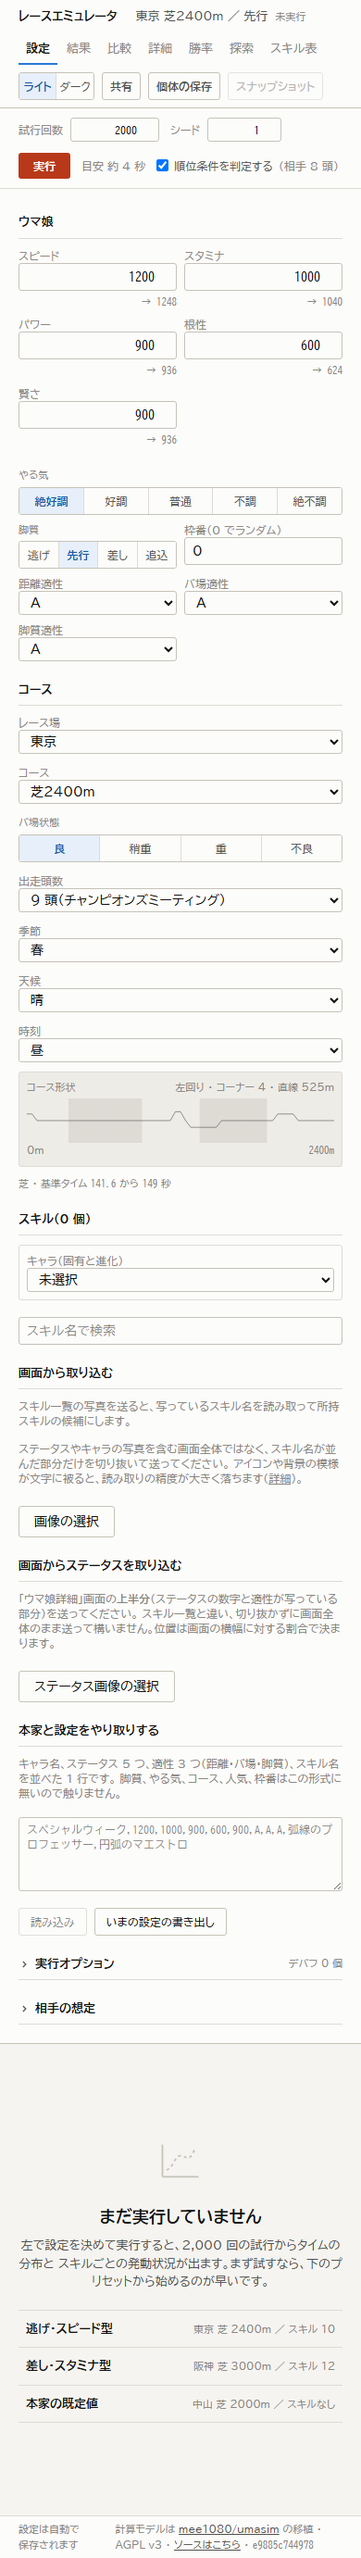
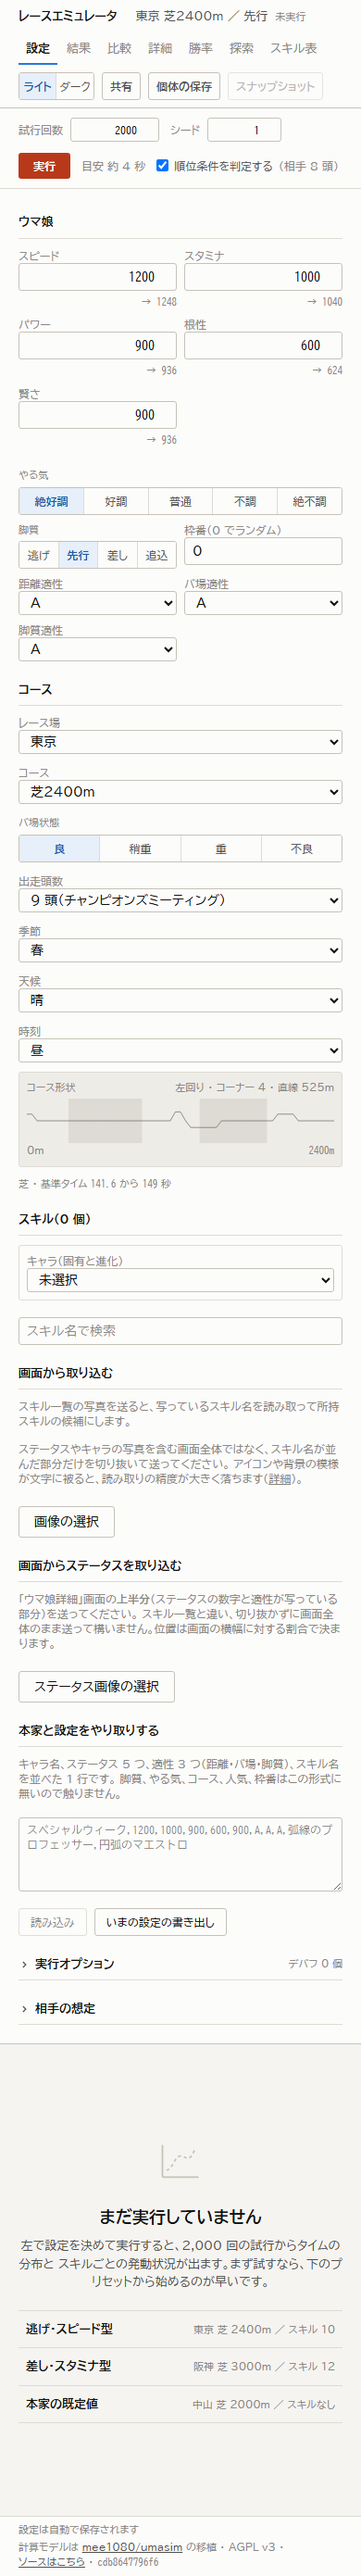
fix: 狭い幅のフッタを、区切りの位置でだけ折り返す
「設定は自動で／保存されます」のように語の途中で折れていた
（docs/ui-gap.md 8 節、design/Mobile.dc.html）。区切り（・）ごとに
1 かたまりにする。広い幅は 1 行のまま変わらない。

Refs #104

diff --git a/apps/web/src/components/Shell.tsx b/apps/web/src/components/Shell.tsx
@@ -217,48 +217,53 @@ const COMMIT_SHA = typeof __COMMIT_SHA__ === 'string' ? __COMMIT_SHA__ : '';
 
 export function Footer() {
   return (
-    <footer className="flex flex-none items-center gap-4 border-t border-rule bg-surface px-5 py-1.5 text-[11px] text-ink3">
+    // 狭い幅では折り返すが、語の途中では折らない。区切り（・）ごとに 1 かたまりにする
+    // （docs/ui-gap.md 8 節、design/Mobile.dc.html）。
+    <footer className="flex flex-none flex-wrap items-center gap-x-4 gap-y-0.5 border-t border-rule bg-surface px-5 py-1.5 text-[11px] text-ink3">
       {/*
         試行数と所要時間は結果の見出しにある。ここにも出すと同じ面に 2 度出る
         （docs/ui-audit-race-emulator.md 第1節「情報の重複」）。
       */}
-      <span>設定は自動で保存されます</span>
-      <span className="flex-1" />
-      <span>
-        計算モデルは{' '}
-        <a
-          className="text-ink2 underline"
-          href="https://github.com/mee1080/umasim"
-          target="_blank"
-          rel="noreferrer noopener"
-        >
-          mee1080/umasim
-        </a>{' '}
-        の移植 ・ AGPL v3 ・{' '}
-        <a
-          className="text-ink2 underline"
-          href={
-            COMMIT_SHA === ''
-              ? 'https://github.com/promodeler314-a11y/raceemu'
-              : `https://github.com/promodeler314-a11y/raceemu/tree/${COMMIT_SHA}`
-          }
-          target="_blank"
-          rel="noreferrer noopener"
-        >
-          ソースはこちら
-        </a>
+      <span className="whitespace-nowrap">設定は自動で保存されます</span>
+      <span className="hidden flex-1 md:block" />
+      <span className="flex flex-wrap items-center gap-x-1">
+        <span className="whitespace-nowrap">
+          計算モデルは{' '}
+          <a
+            className="text-ink2 underline"
+            href="https://github.com/mee1080/umasim"
+            target="_blank"
+            rel="noreferrer noopener"
+          >
+            mee1080/umasim
+          </a>{' '}
+          の移植 ・
+        </span>
+        <span className="whitespace-nowrap">AGPL v3 ・</span>
+        <span className="whitespace-nowrap">
+          <a
+            className="text-ink2 underline"
+            href={
+              COMMIT_SHA === ''
+                ? 'https://github.com/promodeler314-a11y/raceemu'
+                : `https://github.com/promodeler314-a11y/raceemu/tree/${COMMIT_SHA}`
+            }
+            target="_blank"
+            rel="noreferrer noopener"
+          >
+            ソースはこちら
+          </a>
+          {COMMIT_SHA !== '' && ' ・'}
+        </span>
         {/*
           動かしている版と push してある版がズレると、リンクがあっても
           「いま動いているもののソース」にはならない（docs/server-design.md 6 節）。
           組んだコミットを出し、上のリンクもその版に向ける。
         */}
         {COMMIT_SHA !== '' && (
-          <>
-            {' ・ '}
-            <span className="num" data-testid="commit-sha">
-              {COMMIT_SHA}
-            </span>
-          </>
+          <span className="num whitespace-nowrap" data-testid="commit-sha">
+            {COMMIT_SHA}
+          </span>
         )}
       </span>
     </footer>

diff --git a/docs/ui-gap.md b/docs/ui-gap.md
@@ -214,7 +214,7 @@
 | --- | --- | --- | --- |
 | 実行バーの位置 | ヘッダの直下。設定の列より**先** | 設定の列より先に置き、スクロールしても上に貼り付く（[m4-mobile.png](images/m4-mobile.png)）。以前は `<main>` の中にあり、設定の列が高さを取り切って `<main>` の高さが 0 になり、**設定の面からは実行できなかった** | 済み |
 | 群の畳み込み | デバフ・実行オプション・相手の想定は畳んだ見出しだけ | 「実行オプション」（デバフを含む）と「相手の想定」を畳める。狭い幅では畳んで、広い幅では開いて始まる | 済み（[#104](https://github.com/promodeler314-a11y/raceemu/issues/104)） |
-| フッタ | 折り返すが、区切り（・）の位置でしか折らない | 語の途中で折れる（「設定は自動保存され／ます」） | 実装を寄せる |
+| フッタ | 折り返すが、区切り（・）の位置でしか折らない | 区切りごとに 1 かたまりにして、語の途中では折らない | 済み（[#104](https://github.com/promodeler314-a11y/raceemu/issues/104)） |
 | ステータスの並び | 2 列 | 2 列 | 済み |
 
 **実行バーの位置がいちばん重い。** 1440px では右の列の上端にあって常に見えているが、
